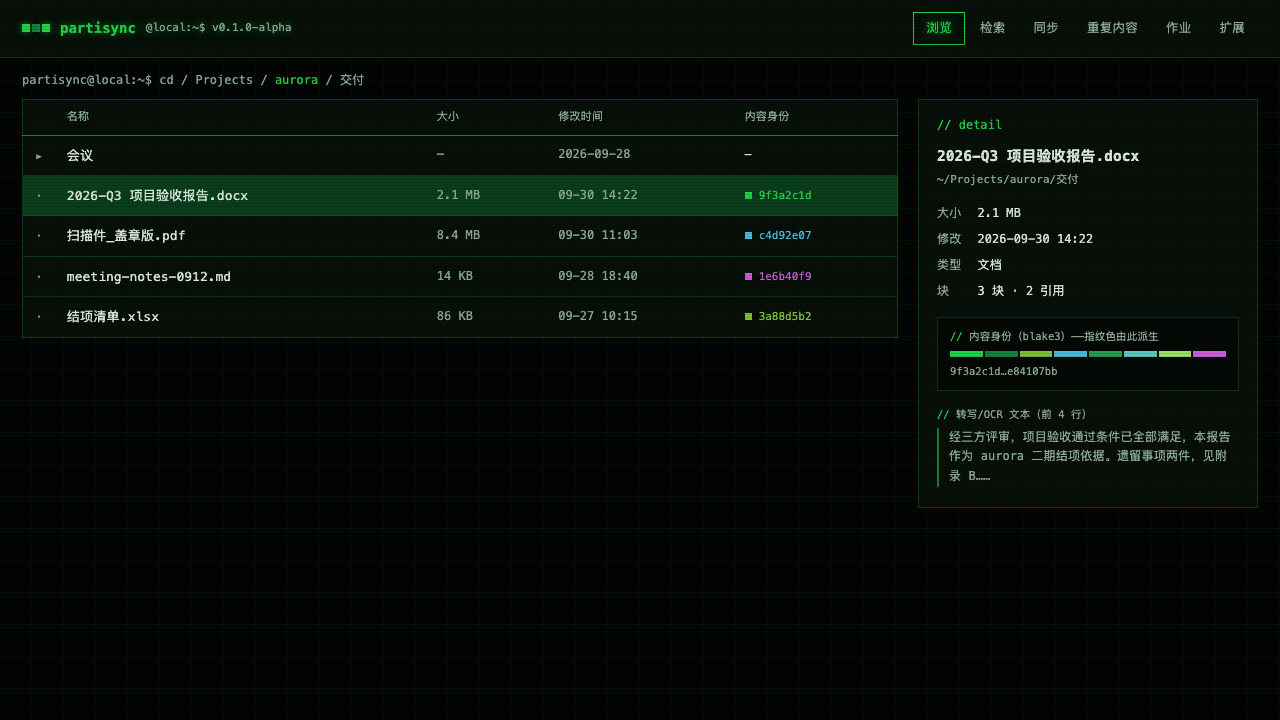
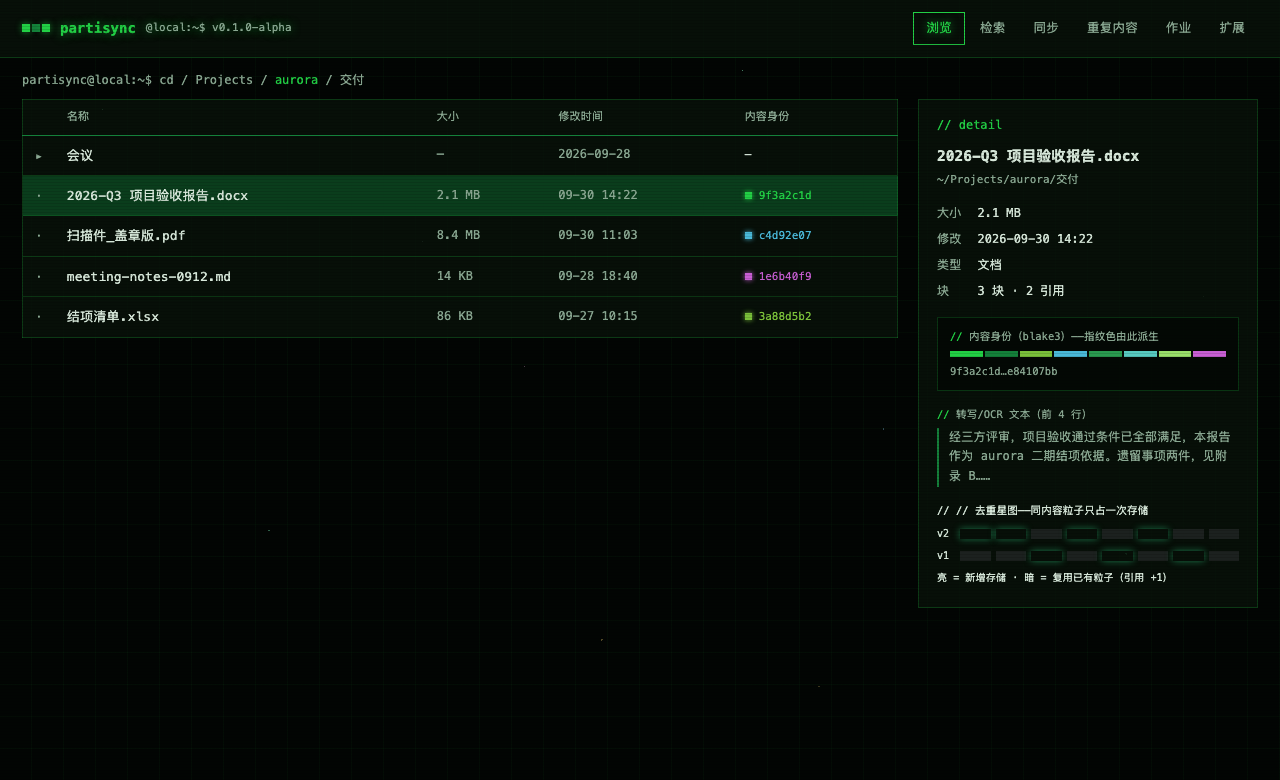
docs(design): 设计 v4——微观宇宙粒子隐喻 + 去重星图组件 [M8-WP05-T00]
Task-ID: M8-WP05-T00
Spec: docs/specs/M8-WP05.md
AI-Assist: GLM-5.3-Flash (ZCode) (核心逻辑升级：文件/设备=粒子=微观宇宙星体；星点底 12 粒 radial-gradient/指纹圆粒 glow hover/去重星图组件（borgbackup 去重叙事借鉴+原创粒子执行非样式抄袭）/同步大数字 data-count 滚动入场 reduced-motion 尊重；截图自查通过)
AI-Review: GLM-5.3-Flash (可取逻辑=去重可视化叙事+counters 计数，样式原创粒子执行；v3 全部保留)

diff --git a/docs/design/mockups/browse.html b/docs/design/mockups/browse.html
@@ -14,8 +14,20 @@
 * { margin: 0; padding: 0; box-sizing: border-box; border-radius: 0 !important; }
 body {
   background:
-    repeating-linear-gradient(0deg, transparent 0 31px, rgba(34, 208, 69, 0.04) 31px 32px),
-    repeating-linear-gradient(90deg, transparent 0 31px, rgba(34, 208, 69, 0.04) 31px 32px),
+    radial-gradient(1px 1px at 8% 14%, hsla(152, 70%, 70%, 0.7) 50%, transparent 51%),
+    radial-gradient(1.5px 1.5px at 21% 68%, hsla(152, 55%, 62%, 0.5) 50%, transparent 51%),
+    radial-gradient(1px 1px at 33% 31%, hsla(160, 40%, 75%, 0.4) 50%, transparent 51%),
+    radial-gradient(2px 2px at 47% 82%, hsla(45, 70%, 65%, 0.35) 50%, transparent 51%),
+    radial-gradient(1px 1px at 58% 9%, hsla(152, 60%, 68%, 0.55) 50%, transparent 51%),
+    radial-gradient(1.5px 1.5px at 69% 55%, hsla(204, 50%, 65%, 0.4) 50%, transparent 51%),
+    radial-gradient(1px 1px at 77% 24%, hsla(315, 40%, 70%, 0.45) 50%, transparent 51%),
+    radial-gradient(2px 2px at 88% 71%, hsla(152, 65%, 60%, 0.5) 50%, transparent 51%),
+    radial-gradient(1px 1px at 94% 38%, hsla(152, 45%, 70%, 0.4) 50%, transparent 51%),
+    radial-gradient(1px 1px at 12% 90%, hsla(204, 45%, 68%, 0.4) 50%, transparent 51%),
+    radial-gradient(1px 1px at 41% 47%, hsla(315, 35%, 72%, 0.35) 50%, transparent 51%),
+    radial-gradient(1.5px 1.5px at 64% 88%, hsla(45, 60%, 62%, 0.3) 50%, transparent 51%),
+    repeating-linear-gradient(0deg, transparent 0 31px, rgba(34, 208, 69, 0.035) 31px 32px),
+    repeating-linear-gradient(90deg, transparent 0 31px, rgba(34, 208, 69, 0.035) 31px 32px),
     var(--bg);
   color: var(--text); font-family: var(--mono); font-size: 13px; line-height: 1.65;
   min-height: 100vh;
@@ -46,7 +58,7 @@ td { padding: 9px 12px; border-bottom: 1px solid var(--panel-line); font-size: 1
 tr:last-child td { border-bottom: 0; }
 td.size, td.mtime { color: var(--text-dim); font-variant-numeric: tabular-nums; white-space: nowrap; font-size: 12px; }
 td.fp { font-size: 11px; color: var(--fp); white-space: nowrap; }
-td.fp i { display: inline-block; width: 7px; height: 7px; margin-right: 7px; background: var(--fp); }
+td.fp i { display: inline-block; width: 7px; height: 7px; margin-right: 7px; background: var(--fp); border-radius: 50%; box-shadow: 0 0 5px var(--fp); }
 tr.row { cursor: pointer; }
 tr.row:hover td { background: rgba(34, 208, 69, 0.06); }
 tr.row[aria-selected] td { background: var(--green-dark); }
@@ -75,6 +87,14 @@ dd.mono { font-size: 11px; word-break: break-all; color: var(--fp, var(--green))
 }
 .section-tag { font-size: 12px; color: var(--green); }
 .section-tag::before { content: "// "; }
+.constellation { margin-top: 15px; }
+.constellation .label { font-size: 10.5px; color: var(--muted-foreground); margin-bottom: 7px; }
+.constellation .label::before { content: "// "; color: var(--primary); }
+.p-row { display: flex; gap: 5px; align-items: center; margin-bottom: 5px; }
+.p-row .p-label { font-family: var(--mono); font-size: 10px; color: var(--muted-foreground); width: 18px; }
+.p-row .p { flex: 1; height: 10px; border-radius: 50%; background: hsl(160 8% 12%); border: 1px solid var(--border); }
+.p-row .p.lit { background: var(--primary); border-color: var(--primary); box-shadow: 0 0 7px hsl(152 70% 52% / 0.5); }
+.p-note { font-size: 10px; color: var(--muted-foreground); margin-top: 6px; }
 @media (prefers-reduced-motion: reduce) { * { transition: none !important; } }
 </style>
 </head>
@@ -128,6 +148,12 @@ dd.mono { font-size: 11px; word-break: break-all; color: var(--fp, var(--green))
     <div class="transcript">
       <div class="label">转写/OCR 文本（前 4 行）</div>
       <blockquote>经三方评审，项目验收通过条件已全部满足，本报告作为 aurora 二期结项依据。遗留事项两件，见附录 B……</blockquote>
+    </div>
+    <div class="constellation">
+      <div class="label">// 去重星图——同内容粒子只占一次存储</div>
+      <div class="p-row"><span class="p-label">v2</span><i class="p lit"></i><i class="p lit"></i><i class="p dim"></i><i class="p lit"></i><i class="p dim"></i><i class="p lit"></i><i class="p dim"></i><i class="p dim"></i></div>
+      <div class="p-row"><span class="p-label">v1</span><i class="p dim"></i><i class="p dim"></i><i class="p lit"></i><i class="p dim"></i><i class="p lit"></i><i class="p dim"></i><i class="p lit"></i><i class="p dim"></i></div>
+      <div class="p-note">亮 = 新增存储 · 暗 = 复用已有粒子（引用 +1）</div>
     </div>
   </aside>
 </main>

diff --git a/docs/design/mockups/search.html b/docs/design/mockups/search.html
@@ -23,8 +23,20 @@
 * { margin: 0; padding: 0; box-sizing: border-box; border-radius: 0 !important; }
 body {
   background:
-    repeating-linear-gradient(0deg, transparent 0 31px, rgba(34, 208, 69, 0.04) 31px 32px),
-    repeating-linear-gradient(90deg, transparent 0 31px, rgba(34, 208, 69, 0.04) 31px 32px),
+    radial-gradient(1px 1px at 8% 14%, hsla(152, 70%, 70%, 0.7) 50%, transparent 51%),
+    radial-gradient(1.5px 1.5px at 21% 68%, hsla(152, 55%, 62%, 0.5) 50%, transparent 51%),
+    radial-gradient(1px 1px at 33% 31%, hsla(160, 40%, 75%, 0.4) 50%, transparent 51%),
+    radial-gradient(2px 2px at 47% 82%, hsla(45, 70%, 65%, 0.35) 50%, transparent 51%),
+    radial-gradient(1px 1px at 58% 9%, hsla(152, 60%, 68%, 0.55) 50%, transparent 51%),
+    radial-gradient(1.5px 1.5px at 69% 55%, hsla(204, 50%, 65%, 0.4) 50%, transparent 51%),
+    radial-gradient(1px 1px at 77% 24%, hsla(315, 40%, 70%, 0.45) 50%, transparent 51%),
+    radial-gradient(2px 2px at 88% 71%, hsla(152, 65%, 60%, 0.5) 50%, transparent 51%),
+    radial-gradient(1px 1px at 94% 38%, hsla(152, 45%, 70%, 0.4) 50%, transparent 51%),
+    radial-gradient(1px 1px at 12% 90%, hsla(204, 45%, 68%, 0.4) 50%, transparent 51%),
+    radial-gradient(1px 1px at 41% 47%, hsla(315, 35%, 72%, 0.35) 50%, transparent 51%),
+    radial-gradient(1.5px 1.5px at 64% 88%, hsla(45, 60%, 62%, 0.3) 50%, transparent 51%),
+    repeating-linear-gradient(0deg, transparent 0 31px, rgba(34, 208, 69, 0.035) 31px 32px),
+    repeating-linear-gradient(90deg, transparent 0 31px, rgba(34, 208, 69, 0.035) 31px 32px),
     var(--bg);
   color: var(--text);
   font-family: var(--mono);
@@ -124,6 +136,14 @@ nav a[aria-current] { color: var(--green); border: 1px solid var(--green); text-
   color: var(--fp); background: rgba(8, 18, 10, 0.9);
   border: 1px solid var(--fp); flex-shrink: 0;
 }
+.hit:hover { background: rgba(34, 208, 69, 0.04); }
+.hit::after {
+  content: ""; position: absolute; left: -2px; top: 16px;
+  width: 6px; height: 6px; border-radius: 50%;
+  background: var(--fp, var(--green)); box-shadow: 0 0 8px var(--fp, var(--green));
+  opacity: 0; transition: opacity 0.15s;
+}
+.hit:hover::after { opacity: 1; }
 .hit .body { flex: 1; min-width: 0; }
 .hit .name { font-weight: 700; font-size: 13.5px; color: var(--text); }
 .hit .path { font-size: 11px; color: var(--text-dim); margin-top: 1px; }

diff --git a/docs/design/mockups/sync.html b/docs/design/mockups/sync.html
@@ -14,8 +14,20 @@
 * { margin: 0; padding: 0; box-sizing: border-box; border-radius: 0 !important; }
 body {
   background:
-    repeating-linear-gradient(0deg, transparent 0 31px, rgba(34, 208, 69, 0.04) 31px 32px),
-    repeating-linear-gradient(90deg, transparent 0 31px, rgba(34, 208, 69, 0.04) 31px 32px),
+    radial-gradient(1px 1px at 8% 14%, hsla(152, 70%, 70%, 0.7) 50%, transparent 51%),
+    radial-gradient(1.5px 1.5px at 21% 68%, hsla(152, 55%, 62%, 0.5) 50%, transparent 51%),
+    radial-gradient(1px 1px at 33% 31%, hsla(160, 40%, 75%, 0.4) 50%, transparent 51%),
+    radial-gradient(2px 2px at 47% 82%, hsla(45, 70%, 65%, 0.35) 50%, transparent 51%),
+    radial-gradient(1px 1px at 58% 9%, hsla(152, 60%, 68%, 0.55) 50%, transparent 51%),
+    radial-gradient(1.5px 1.5px at 69% 55%, hsla(204, 50%, 65%, 0.4) 50%, transparent 51%),
+    radial-gradient(1px 1px at 77% 24%, hsla(315, 40%, 70%, 0.45) 50%, transparent 51%),
+    radial-gradient(2px 2px at 88% 71%, hsla(152, 65%, 60%, 0.5) 50%, transparent 51%),
+    radial-gradient(1px 1px at 94% 38%, hsla(152, 45%, 70%, 0.4) 50%, transparent 51%),
+    radial-gradient(1px 1px at 12% 90%, hsla(204, 45%, 68%, 0.4) 50%, transparent 51%),
+    radial-gradient(1px 1px at 41% 47%, hsla(315, 35%, 72%, 0.35) 50%, transparent 51%),
+    radial-gradient(1.5px 1.5px at 64% 88%, hsla(45, 60%, 62%, 0.3) 50%, transparent 51%),
+    repeating-linear-gradient(0deg, transparent 0 31px, rgba(34, 208, 69, 0.035) 31px 32px),
+    repeating-linear-gradient(90deg, transparent 0 31px, rgba(34, 208, 69, 0.035) 31px 32px),
     var(--bg);
   color: var(--text); font-family: var(--mono); font-size: 13px; line-height: 1.65;
   min-height: 100vh;

diff --git a/docs/design/M8-WP05-design.md b/docs/design/M8-WP05-design.md
@@ -7,6 +7,16 @@
 > 执行: GLM-5.3-Flash (ZCode)（frontend-design 流程：计划→自审→构建
 > →截图自查）
 >
+> **v4（2026-10-02 用户三次补充：微观宇宙粒子隐喻）**——核心设计
+> 逻辑升级：**数据文件/设备 = 粒子（particle）= 微观宇宙中的尘埃/
+> 星球/天体**。落地：①多层 radial-gradient 星点底（星域）；②条目
+> 指纹 = 圆粒星点 + hover 光晕（`::after` 粒子）；③**去重星图组件**
+> （browse 详情：v1/v2 两行粒子，亮 = 新增存储 · 暗 = 复用已有——
+> borgbackup 去重可视化的**叙事借鉴 + 原创粒子执行，非样式抄袭**）；
+> ④同步大数字 **data-count 滚动入场**（counters 逻辑原创实现，
+> reduced-motion 直落终值）。「指纹即视觉」「全等宽/直角/扫描线」
+> 不变。
+>
 > **v3（2026-10-02 用户二次补充：直角 + 赛博朋克感 + 参考
 > borgbackup.org 官网）**——官网 tokens **实测提取**（curl 源码）：
 > `--bg #020503` / `--green #22D045` / `--panel rgba(8,18,10,.82)` /
@@ -50,7 +60,10 @@ PartiSync 桌面壳是**本地优先引擎的档案工具**：用户的核心对
 | 直角 | `border-radius: 0 !important` | 全组件（用户硬性要求 + 官网判例） |
 | 扫描线 | 3px 周期 rgba(0,0,0,.12) fixed overlay | CRT 质感（subtle） |
 | glow | `text/box-shadow rgba(34,208,69,.35~.6)` | 标题/得分条/当前 tab（赛博霓虹） |
-| 网格底纹 | 32px repeating-linear（4% 绿） | body 背景 |
+| 星点底 | 多层 radial-gradient 1–2px 粒子（12 颗，绿/白/琥珀/青/紫） | body 背景（星域；网格底纹之上） |
+| 去重星图 | 两行圆粒（10px，lit=primary glow / dim=border） | browse 详情（讲「同内容只存一次」） |
+| 计数入场 | data-count + rAF ease-out 900ms | 同步大数字（reduced-motion 直落终值） |
+| 网格底纹 | 32px repeating-linear（3.5% 绿） | body 背景（星域坐标网格） |
 | 终端提示符 | `partisync@local:~$` + 闪烁光标 | 检索区/状态横幅引导 |
 
 字号：30 mono（同步大数字）/ 14（wordmark/检索输入/条目名）/ 13 正文 /
